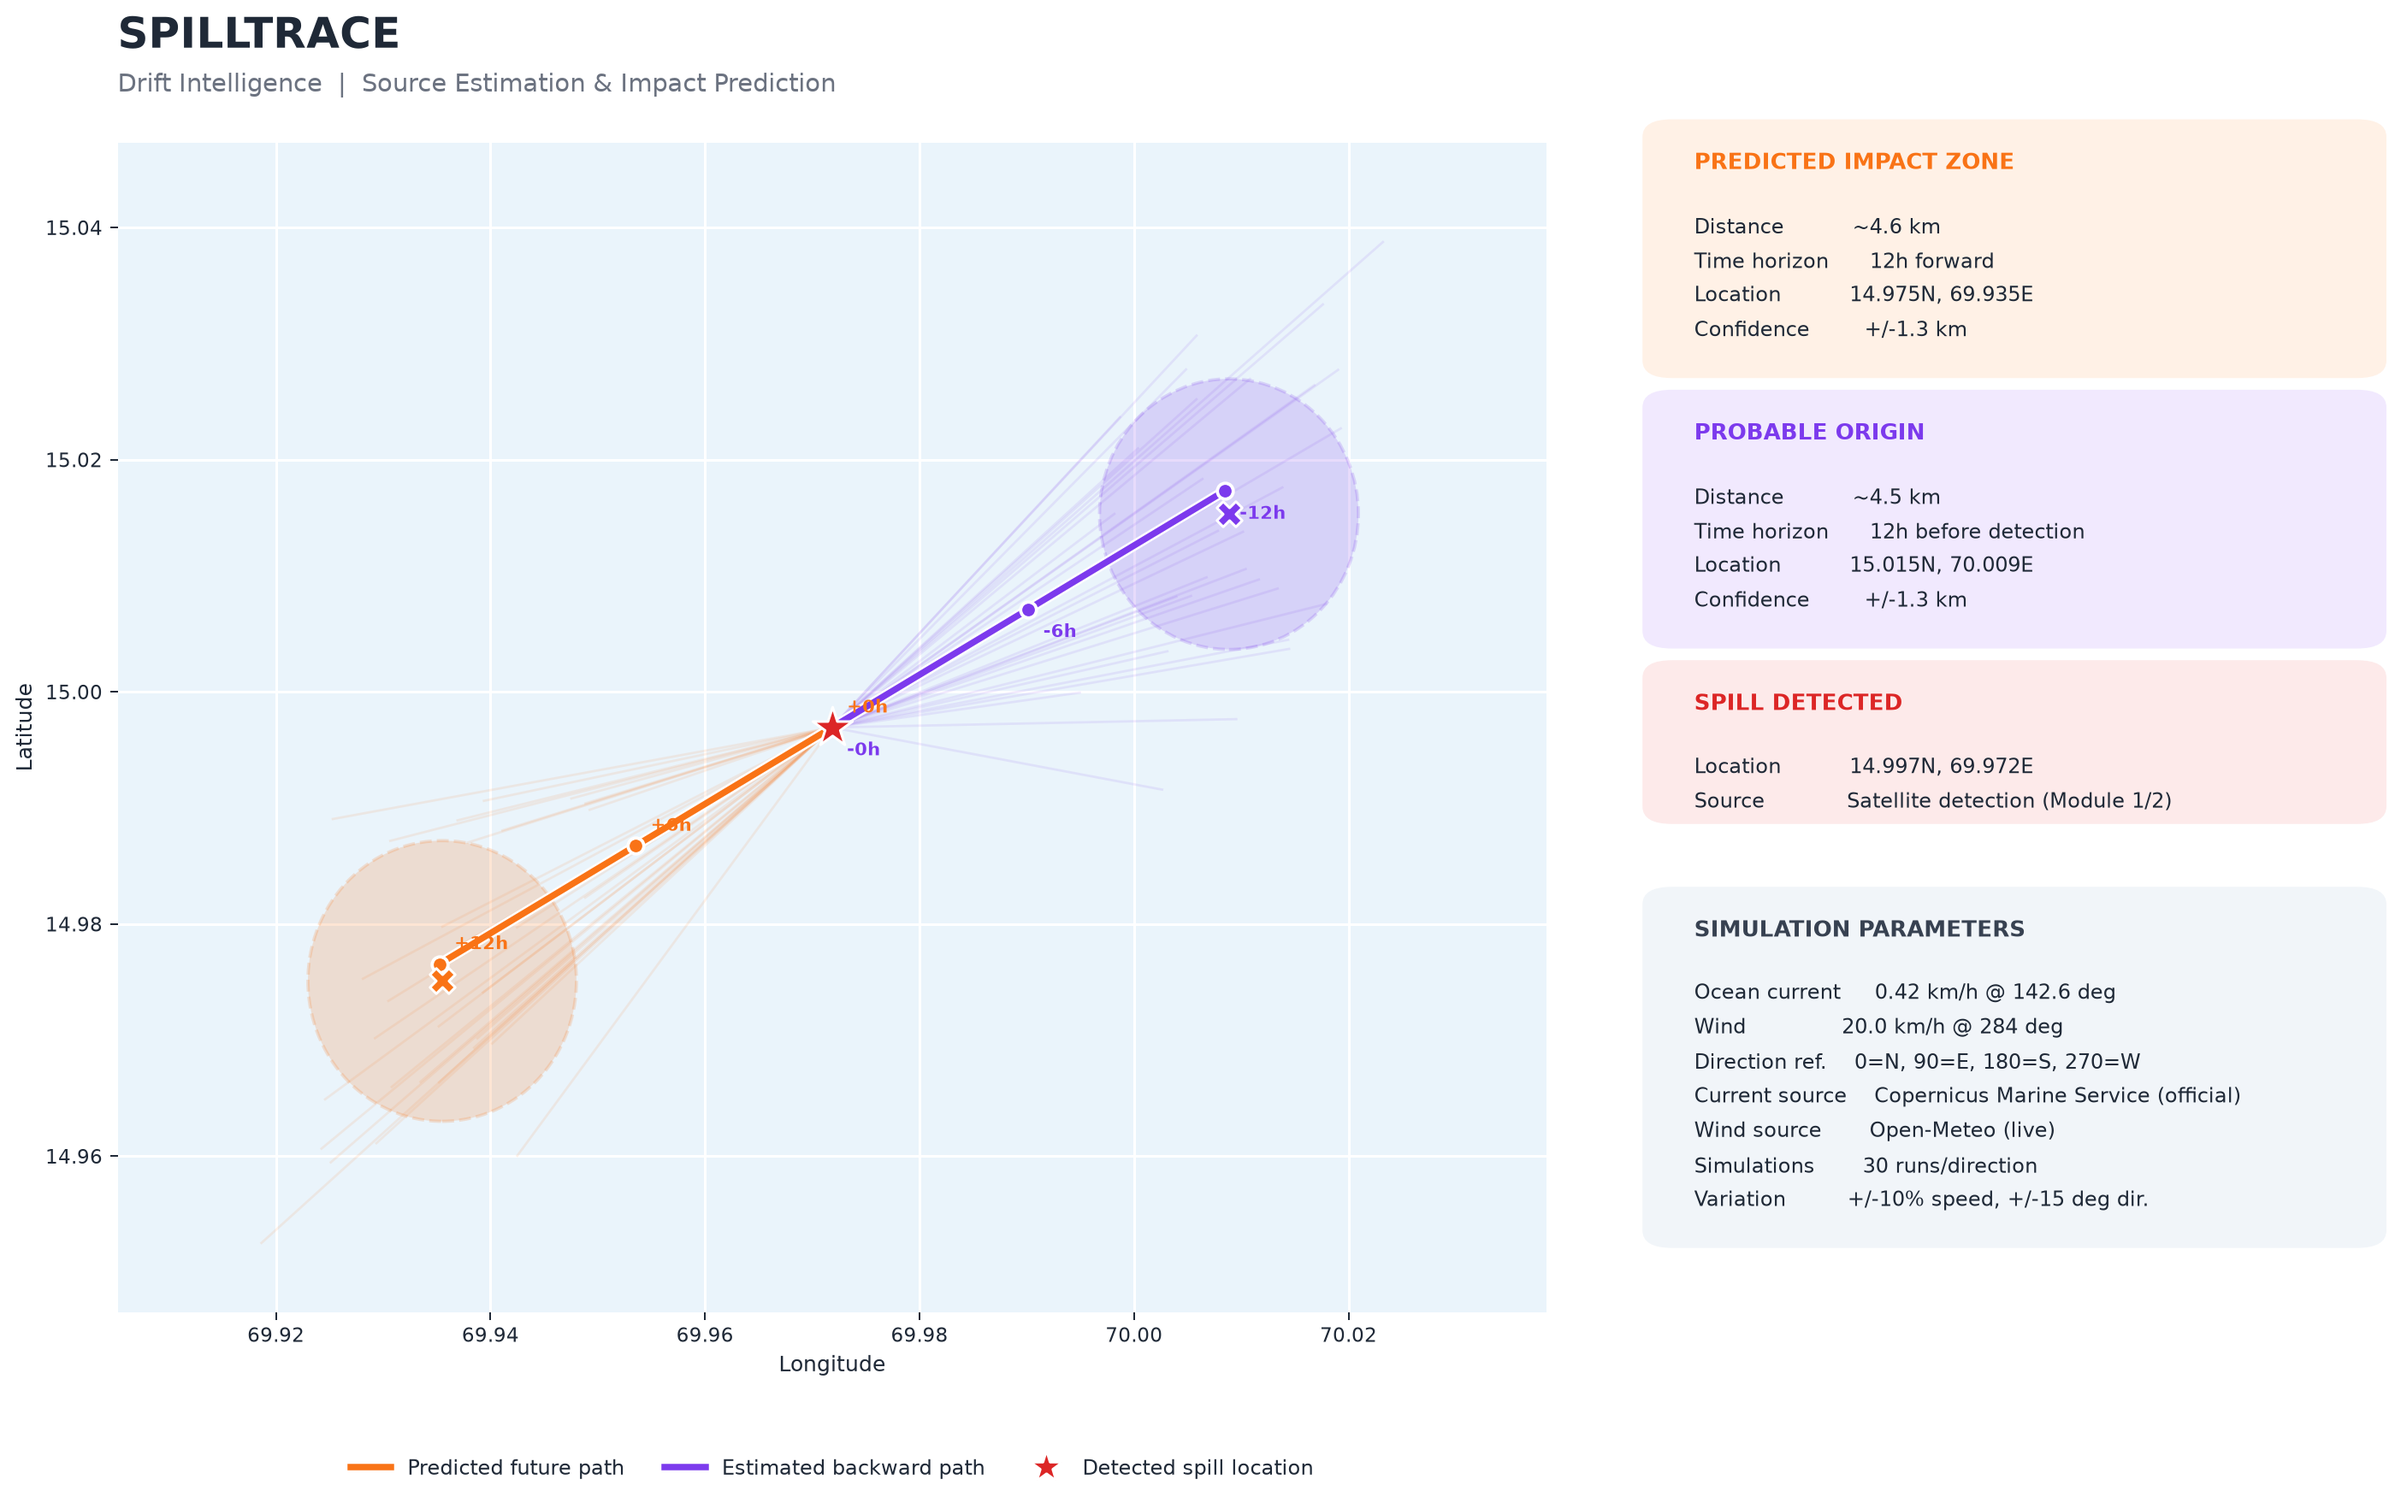
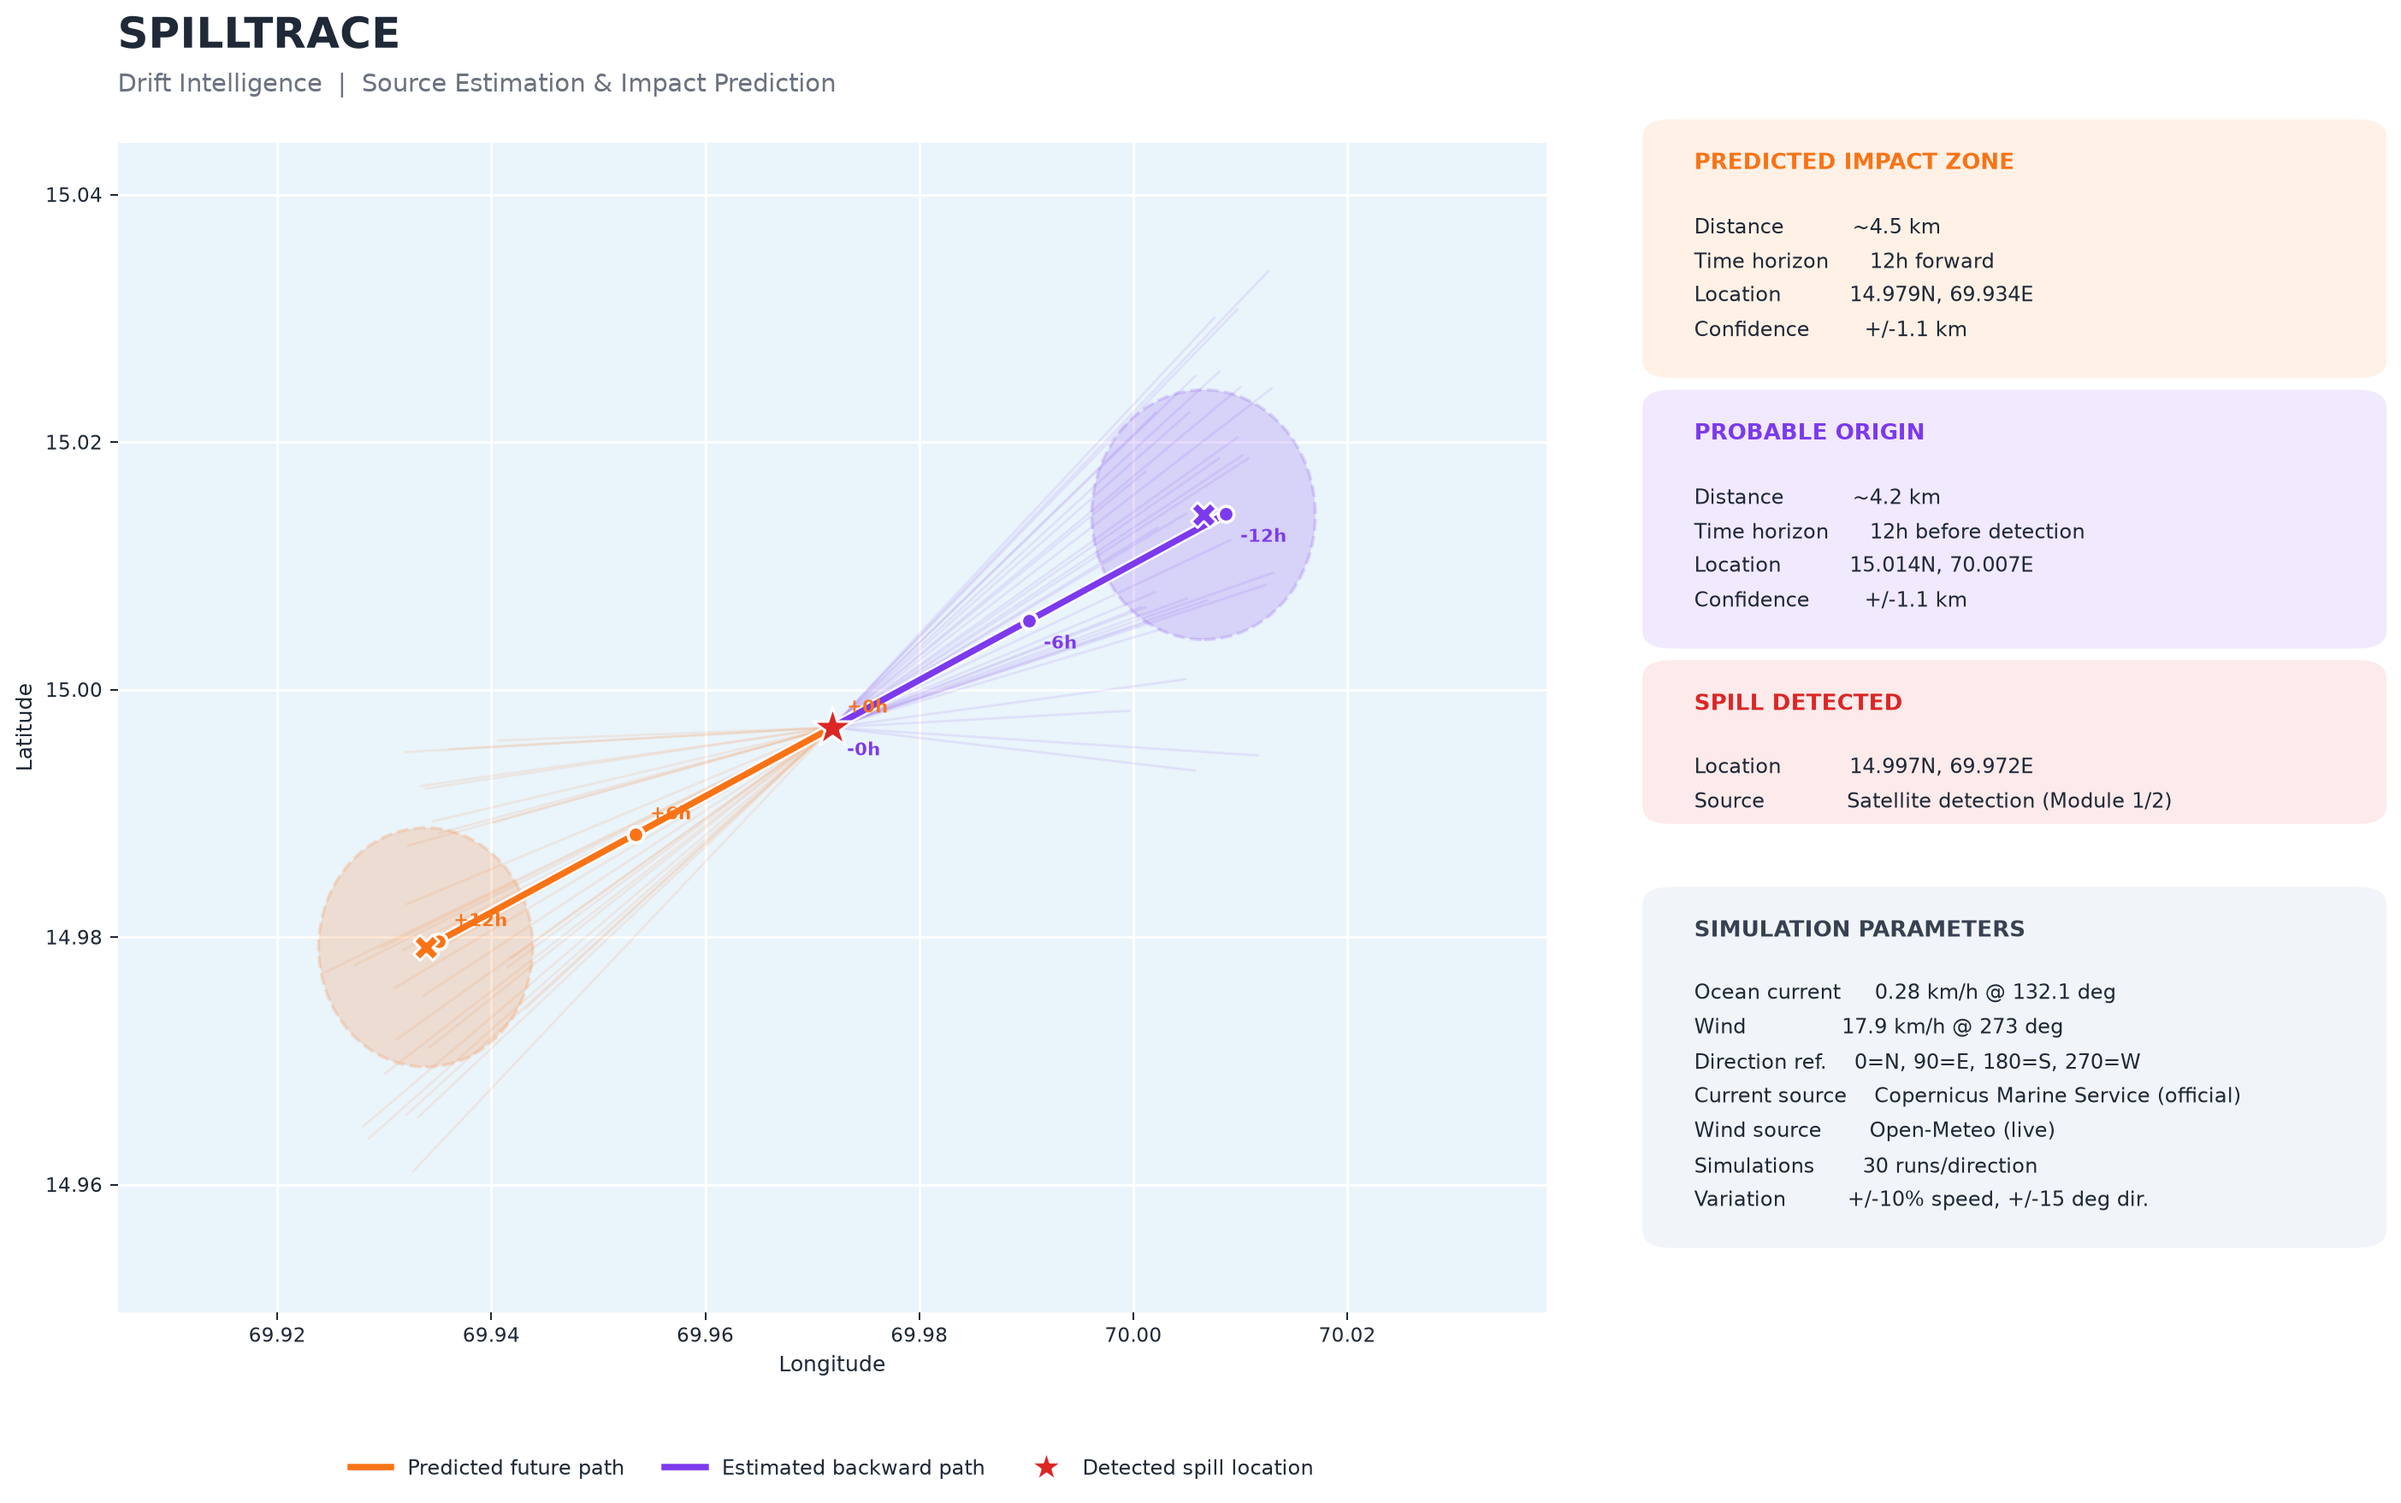
Complete Module 3 live drift integration

Changed region(s): [[0.124, 0.4608, 0.3719, 0.7679], [0.3719, 0.2457, 0.5889, 0.4608]]

diff --git a/modules/drift/real_data_demo.py b/modules/drift/real_data_demo.py
@@ -12,7 +12,7 @@ from visualize_drift import plot_corridor
 def get_all_spill_detections():
     """
     Reads REAL detection results sent by a teammate (Module 2),
-    saved as modules/detection/detections.csv.
+    saved as detections.csv.
     Returns ALL confirmed spill detections (detected == True),
     not just the single best one - since each row may represent
     a separate, independent spill event.
@@ -21,7 +21,7 @@ def get_all_spill_detections():
     satellite georeferencing yet, per Module 2's own documentation).
     State this honestly in your presentation.
     """
-    detections = pd.read_csv("modules/detection/detections.csv")
+    detections = pd.read_csv("detections.csv")
 
     required_columns = {"image", "detected", "confidence", "centroid_lat", "centroid_lon"}
     missing = required_columns - set(detections.columns)
@@ -167,6 +167,14 @@ def save_drift_results(detection, input_data, result, current_source,
 
 
 if __name__ == "__main__":
+
+    OUTPUT_PATH = "modules/drift/drift_results.csv"
+
+    # Start a fresh results file for this pipeline run
+    if os.path.exists(OUTPUT_PATH):
+        os.remove(OUTPUT_PATH)
+        print(f"Cleared previous results: {OUTPUT_PATH}")
+
     all_spills = get_all_spill_detections()
     print(f"Found {len(all_spills)} confirmed spill(s) in detections.csv:\n")
     for s in all_spills:

diff --git a/modules/drift/visualize_drift.py b/modules/drift/visualize_drift.py
@@ -191,8 +191,7 @@ def plot_corridor(input_data, save_path="drift_corridor.png", current_source="Un
 
     plt.savefig(save_path, dpi=180, bbox_inches="tight", facecolor="white")
     print(f"Plot saved to: {save_path}")
-    plt.show()
-
+    plt.close(fig)
 
 if __name__ == "__main__":
     test_input = {
